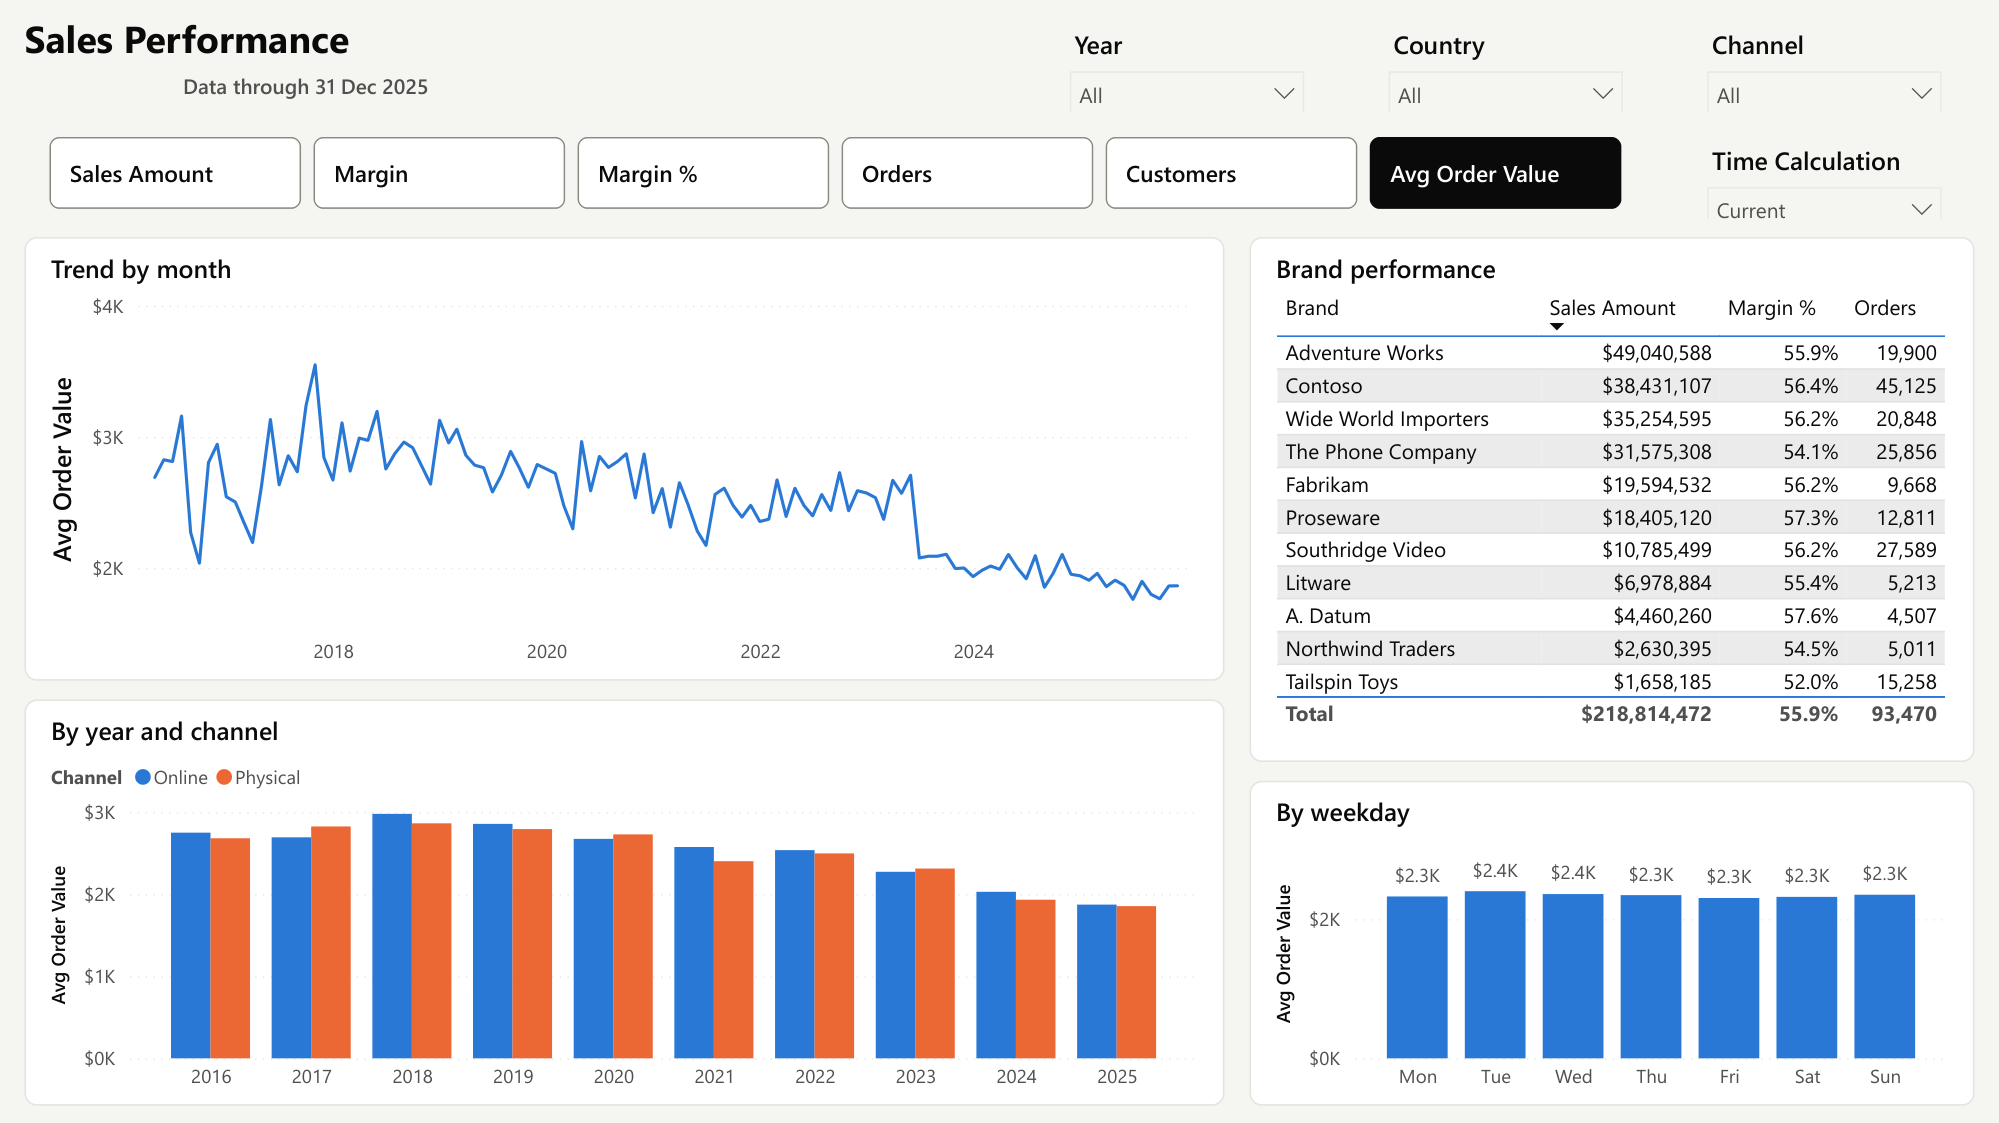
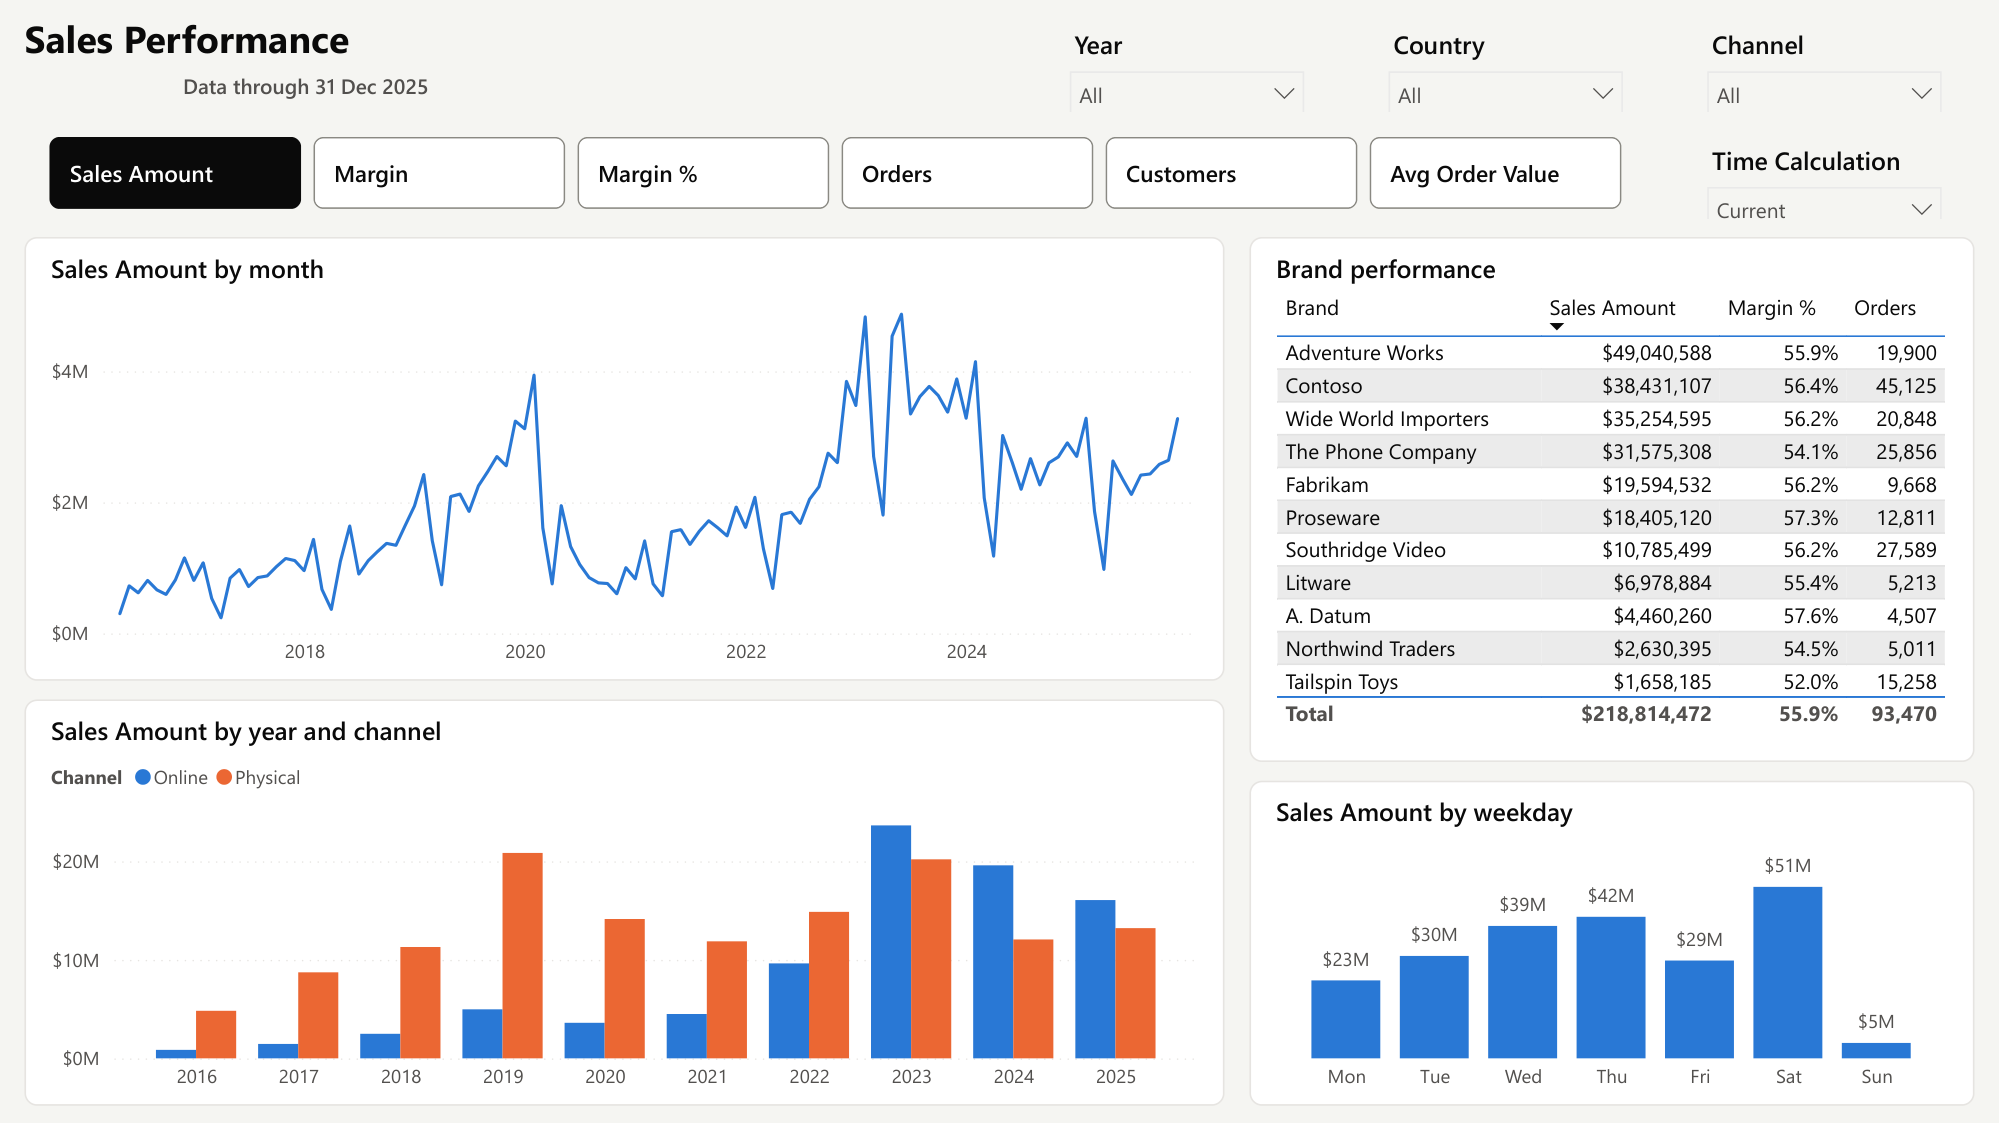
Add Customers screenshot and refresh Sales Performance screenshot in README

diff --git a/README.md b/README.md
@@ -8,16 +8,20 @@ An end-to-end retail analytics product. It turns raw order data into a governed 
 
 *Executive Overview on the 100K-order dataset (2016–2025). Sales vs budget compares the same months on both sides; YoY % comes from the Time Intelligence calculation group.*
 
-![Sales Performance page with Avg Order Value selected: metric tiles, a time-calculation dropdown, monthly trend, online vs physical by year, a weekday profile and a brand table](docs/images/sales-performance.png)
+![Sales Performance page: metric tiles, a time-calculation dropdown, monthly trend, online vs physical by year, a weekday profile and a brand table, with titles naming the selected metric](docs/images/sales-performance.png)
 
-*Sales Performance with **Avg Order Value** selected. The metric tiles (a field parameter) switch every chart, and the Time Calculation dropdown (the calculation group) applies YTD, PY, YoY % and more to whichever metric is shown. Order volume peaks on Saturdays, but order value is flat across the week.*
+*Sales Performance. The metric tiles (a field parameter) switch every chart, the Time Calculation dropdown (the calculation group) applies YTD, PY, YoY % and more, and each title names the metric and time calculation on display, e.g. "Orders (YoY %) by month".*
+
+![Customers page: KPI cards, new vs returning customers by year, customers by age band and gender, a cohort retention heatmap and customers by country](docs/images/customers.png)
+
+*Customers. The heatmap shows what share of each year's new customers bought again in later years; the colour scale is capped at 25% so the differences between cohorts stay visible.*
 
 | Layer | What's here |
 |---|---|
 | **Ingest** | SQLBI's Contoso V2 dataset (100K to 10M orders) downloaded as Parquet, plus a synthetic fixture generator for CI |
 | **Transform** | dbt + DuckDB: staging views → star-schema marts with **enforced contracts**, data tests, **unit tests** and a source-reconciliation test |
 | **Semantic model** | Power BI project (PBIP) in **TMDL**: import mode with **incremental refresh**, **calculation group** for time intelligence, **field parameter**, **dynamic RLS**, budget at a coarser grain via many-to-many relationships, dynamic format strings |
-| **Report** | **PBIR** (enhanced report format) with a custom, colour-blind-safe theme: Executive Overview and Sales Performance pages, with slicers synced across pages and field-parameter metric tiles |
+| **Report** | **PBIR** (enhanced report format) with a custom, colour-blind-safe theme: Executive Overview, Sales Performance and Customers pages, with slicers synced across pages, field-parameter metric tiles and a cohort retention heatmap |
 | **Quality gates** | TMDL validation with the Tabular Object Model, DAX reference checks, **Best Practice Analyzer**, dbt ↔ model contract check, PBIR schema + field-reference checks, generated data dictionary |
 | **Deploy** | Delta tables to a **Fabric Lakehouse**, model + report via **fabric-cicd**, GitHub Actions with OIDC (no secrets) and DEV → TEST → PROD promotion with approvals |
 
@@ -102,6 +106,7 @@ Key design decisions:
 |---|---|---|
 | `dbt build` (fixtures) | broken SQL, contract/type drift, failed data tests, unit-test regressions, source ↔ mart totals mismatch | CI, `tasks.ps1 check` |
 | `check_model_contract.py` | a dbt column renamed or retyped without updating the Power BI model | CI, `check` |
+| `add_lineage_tags.py --check` | hand-written model objects without a `lineageTag`, which Desktop silently drops from visuals | CI, `check` |
 | `TmdlValidator` | TMDL syntax, broken object references, relationship type mismatches, DAX references to missing columns or measures | CI, `check` |
 | Best Practice Analyzer | missing descriptions or format strings, visible FKs, `/` instead of `DIVIDE`, floating point, bi-directional relationships, … | CI (Tabular Editor 2) |
 | `validate_report.py` | PBIR files that violate Microsoft's JSON schemas, invalid theme, visuals bound to fields that no longer exist, formatting values Power BI would silently ignore | CI, `check` |
@@ -114,7 +119,7 @@ Key design decisions:
 
 ## Building out the report
 
-Two pages are built: Executive Overview and Sales Performance (field-parameter metric tiles and a time-calculation dropdown). **[docs/report-design.md](docs/report-design.md)** has the page plan (sales, customers and cohorts, products, stores, budget variance, drill-through), the colour system and the accessibility and performance checklists.
+Three pages are built: Executive Overview, Sales Performance (field-parameter metric tiles and a time-calculation dropdown) and Customers (cohort retention). **[docs/report-design.md](docs/report-design.md)** has the page plan (sales, customers and cohorts, products, stores, budget variance, drill-through), the colour system and the accessibility and performance checklists.
 
 ## Roadmap
 
